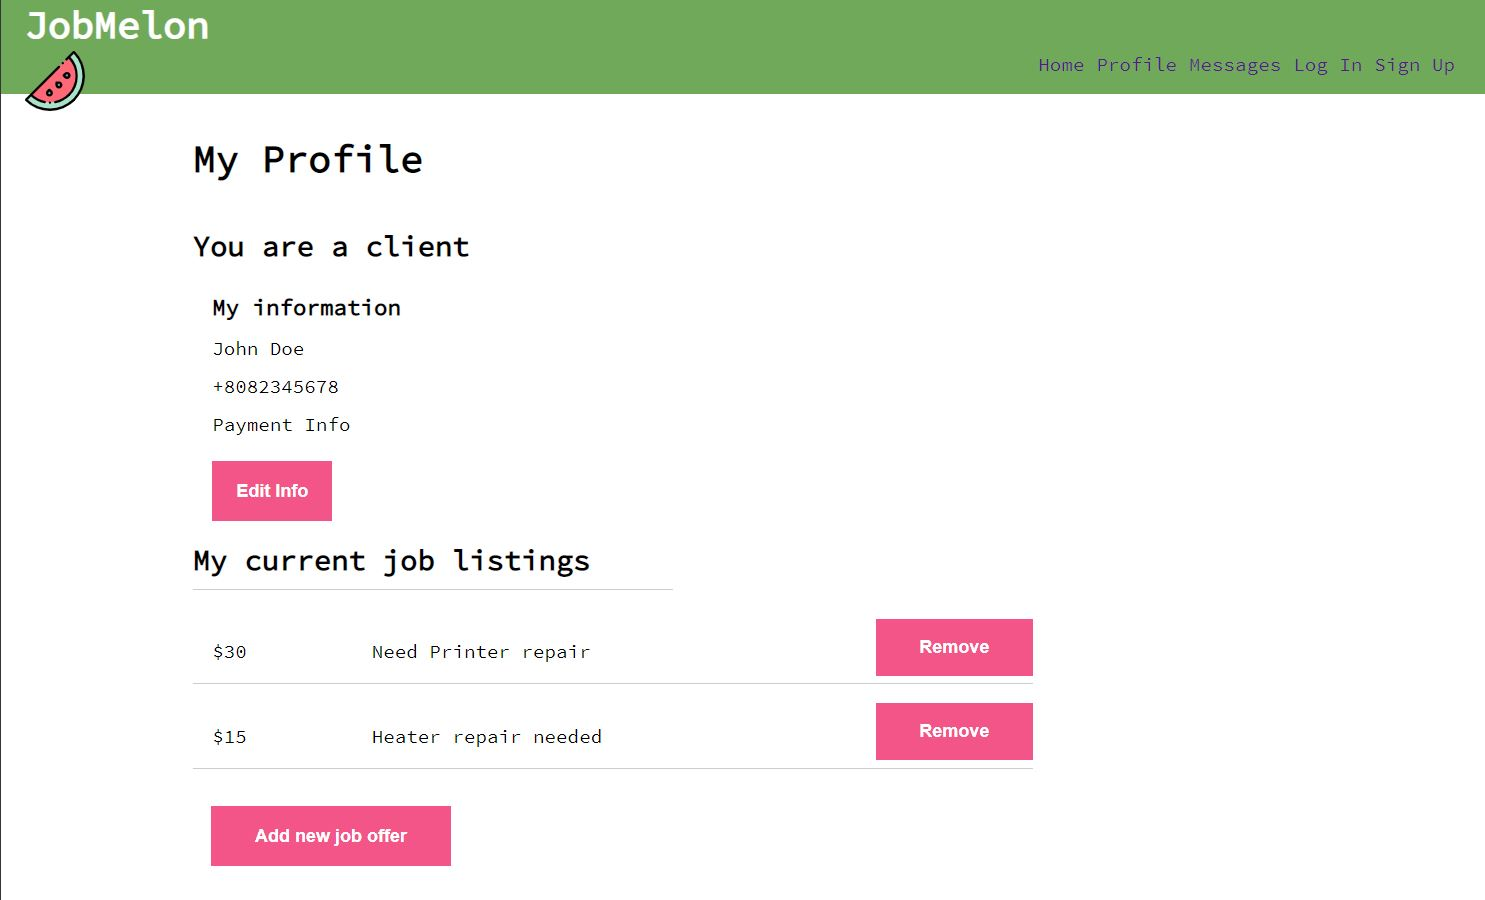
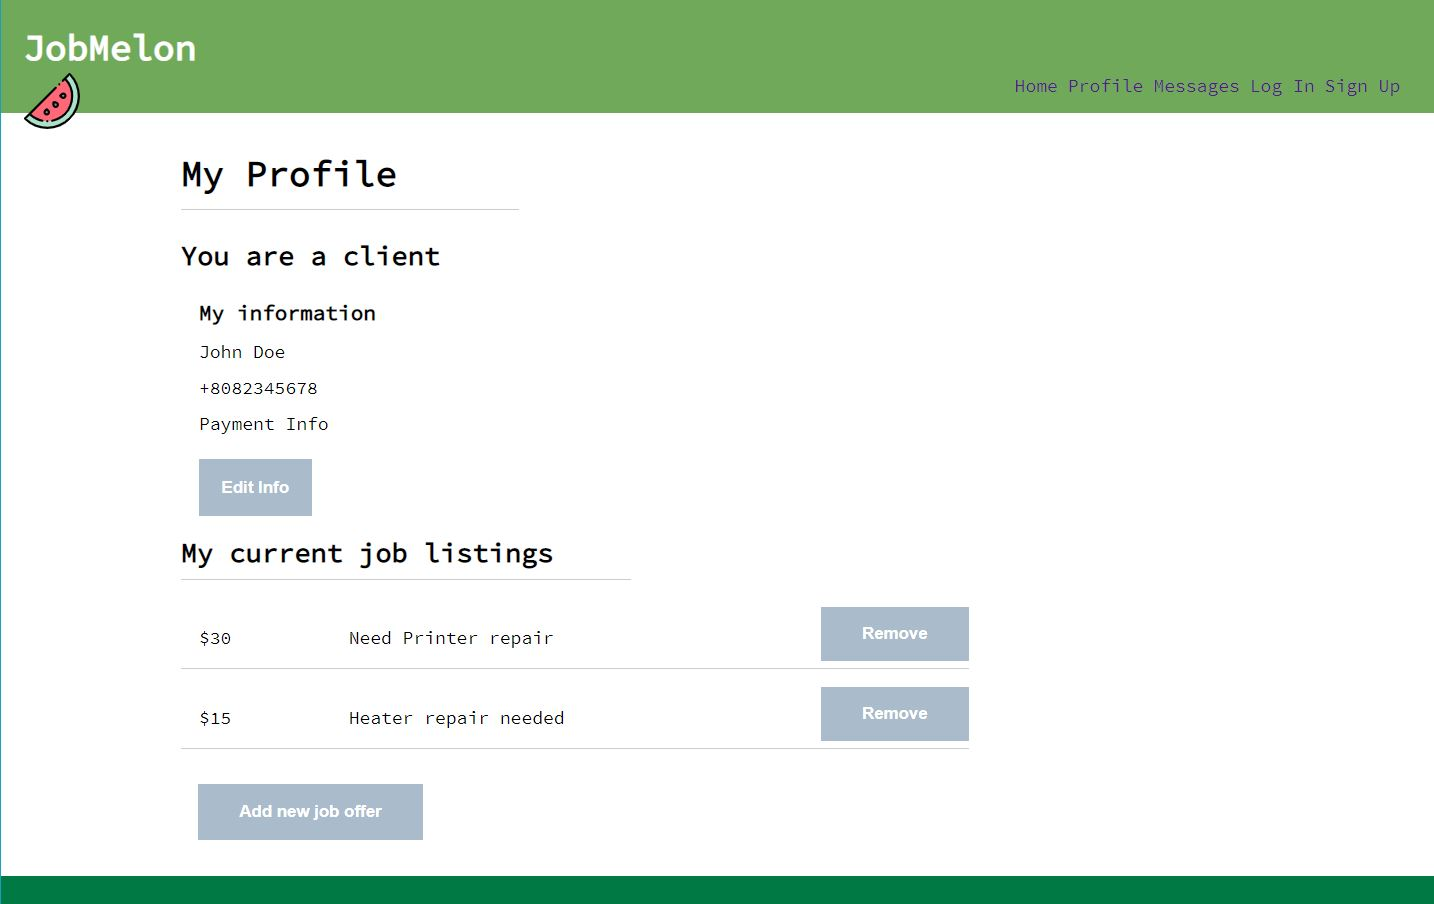
Replaced profile page image

diff --git a/client/src/components/pages/profile_page/Profile.css b/client/src/components/pages/profile_page/Profile.css
@@ -12,7 +12,10 @@
 
 .header {
 	border: none;
-	width: 300px;
+	border-bottom: 
+		solid
+		#CCC
+		1px;	width: 300px;
 	padding-bottom: 0.3em;
 
 }
@@ -41,7 +44,7 @@
  	color: #FFF;
  	transition: all 0.2s;
  	/* background: #F35588; */
- 	background: black;
+ 	background: #abc;
  	margin-top: 1em;
 }
 
